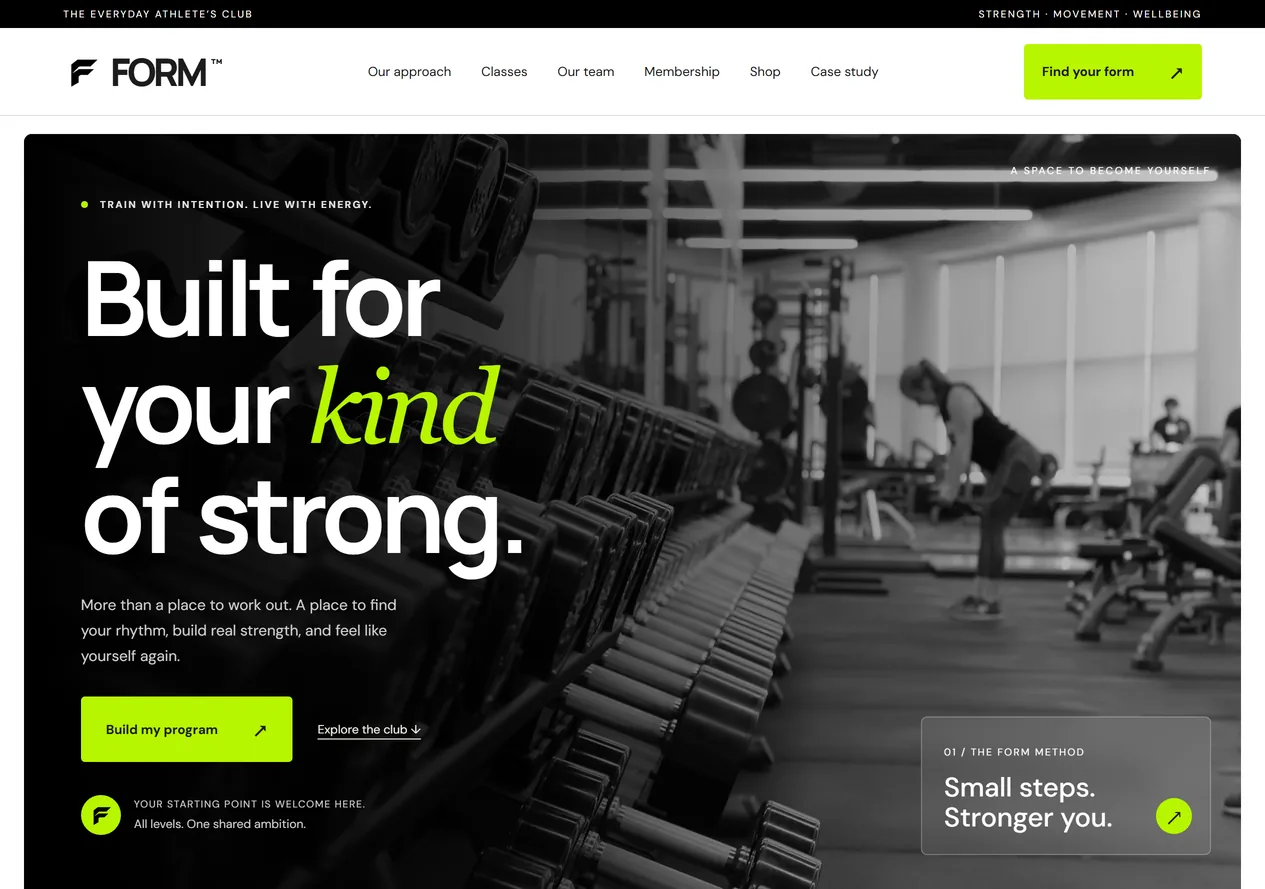
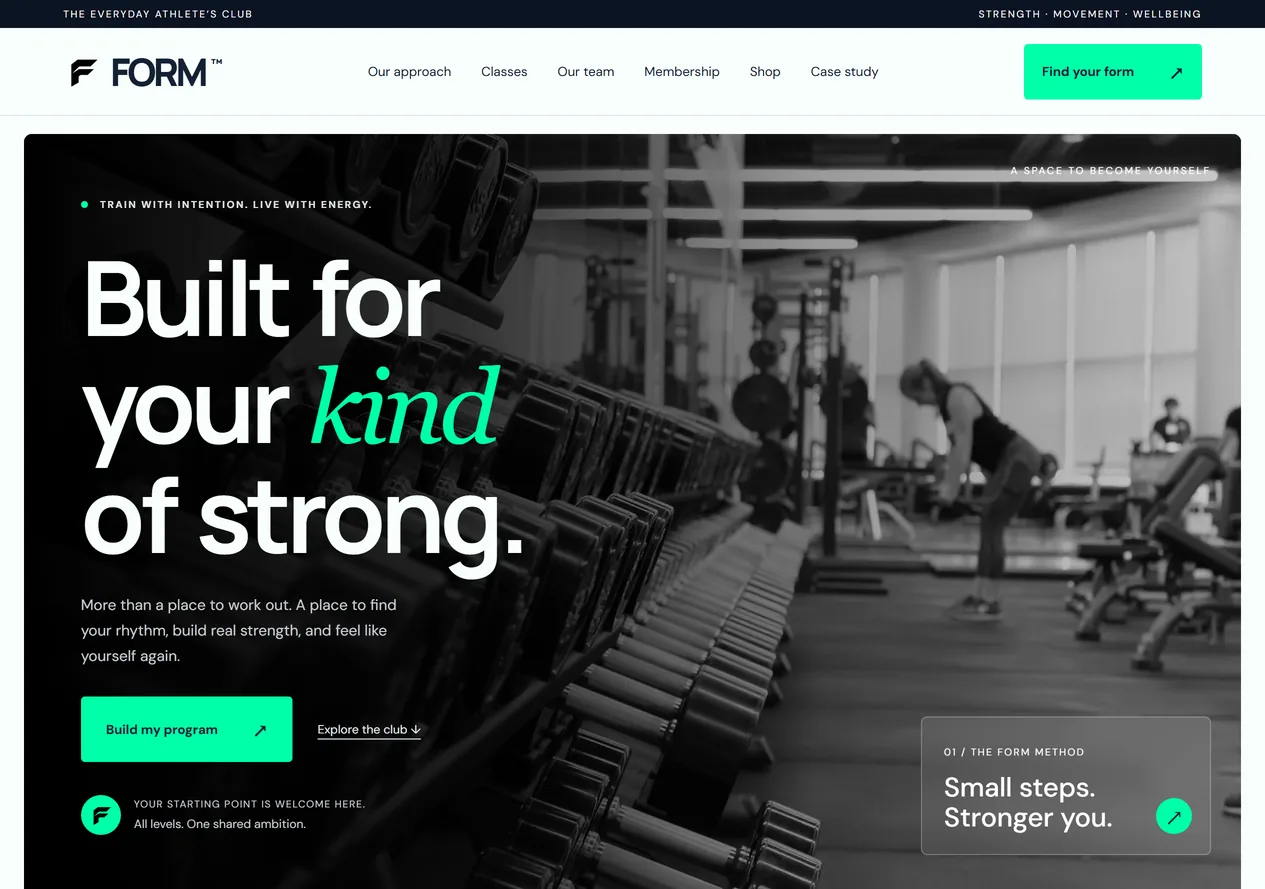
Update FORM study for its new navy, mint and blue palette
New live capture, updated design wording and alt text, and a cool
blue panel tint in place of sage.

diff --git a/index.html b/index.html
@@ -43,7 +43,7 @@
     .hero{display:grid;grid-template-columns:minmax(0,1.2fr) minmax(0,1fr);gap:40px;align-items:center}.hero h1{font:600 clamp(60px,7vw,108px)/1.02 'Manrope',sans-serif;letter-spacing:-.065em;margin:30px 0 32px}.hero-copy p{font-size:17px;line-height:1.7;max-width:480px;margin:0 0 34px;color:var(--muted)}.hero-stack{position:relative;aspect-ratio:1.05}.hero-stack img{position:absolute;width:78%;height:auto;border-radius:8px;box-shadow:0 30px 60px #25272233;transition:transform .7s cubic-bezier(.2,.7,.2,1)}.hero-stack img:nth-child(1){left:20%;top:3%;transform:rotate(8deg)}.hero-stack img:nth-child(2){left:0;top:19%;transform:rotate(-7deg)}.hero-stack img:nth-child(3){left:11%;top:37%;transform:rotate(1.5deg)}.hero:hover .hero-stack img:nth-child(1){transform:translate(26px,-22px) rotate(12deg)}.hero:hover .hero-stack img:nth-child(2){transform:translate(-26px,-4px) rotate(-11deg)}.hero:hover .hero-stack img:nth-child(3){transform:translateY(14px) rotate(0)}.hero-index{position:absolute;right:0;bottom:-6px;font:11px monospace;letter-spacing:1px;text-transform:uppercase;color:var(--muted)}
     .marquee{display:flex;align-items:center;gap:28px;border-top:1px solid var(--line);border-bottom:1px solid var(--line);padding:20px 0;font:11px monospace;letter-spacing:1.2px;text-transform:uppercase}.marquee-label{flex:none;color:var(--muted)}.marquee-window{flex:1;min-width:0;display:flex;overflow:hidden;-webkit-mask-image:linear-gradient(90deg,transparent,#000 7%,#000 93%,transparent);mask-image:linear-gradient(90deg,transparent,#000 7%,#000 93%,transparent)}.marquee-track{flex:none;display:flex;margin:0;padding:0;list-style:none;white-space:nowrap;animation:marquee 70s linear infinite}.marquee-track li::after{content:'✦';color:var(--accent);margin:0 22px;font-size:9px}.marquee:hover .marquee-track{animation-play-state:paused}@keyframes marquee{to{transform:translateX(-100%)}}
     .cases{display:grid;gap:90px}.case{display:grid;grid-template-columns:minmax(0,1.15fr) minmax(0,1fr);gap:56px;align-items:center}.case.flip .case-visual{order:2}.case-visual{position:relative;display:block;width:100%;border:0;padding:58px 7% 0;background:var(--tone);border-radius:8px;overflow:hidden;aspect-ratio:1.25;color:var(--ink)}.case-visual img{display:block;width:100%;height:auto;border-radius:6px 6px 0 0;box-shadow:0 24px 50px #2527222e;transition:transform .5s cubic-bezier(.2,.7,.2,1)}.case-visual:hover img{transform:translateY(-8px)}.case-number{position:absolute;top:21px;left:22px;font:11px monospace;letter-spacing:1px;text-transform:uppercase;opacity:.75}.case-zoom{position:absolute;right:18px;bottom:18px;z-index:1;background:var(--paper);padding:11px 15px;border-radius:99px;font:11px monospace}.case.featured{grid-template-columns:1fr;gap:40px}.featured .case-visual{aspect-ratio:2.1;padding:72px 14% 0}.featured .case-copy{display:grid;grid-template-columns:1fr 1.2fr;gap:56px}.case-copy h3{font:500 clamp(32px,3.2vw,46px)/1.1 'Manrope',sans-serif;letter-spacing:-1.6px;margin:0 0 12px}.case-copy dl{margin:0}.case:not(.featured) .case-copy dl{margin-top:34px;padding-top:28px;border-top:1px solid var(--line)}.case-copy dt:first-child{margin-top:0}.case-links{display:flex;gap:10px 28px;flex-wrap:wrap}.tone-ronins{--tone:#e6d6cc}.tone-khalik{--tone:#dce7a8}.tone-realest{--tone:#ecdcd4}
-.tone-form{--tone:#e4e9d8}.more-work .gallery-head{margin-top:90px}
+.tone-form{--tone:#dbeef5}.more-work .gallery-head{margin-top:90px}
     .motion-grid{display:grid;grid-template-columns:repeat(4,minmax(0,1fr));gap:16px}.motion-tile{position:relative;margin:0;aspect-ratio:1;border-radius:8px;overflow:hidden;background:#ebe9e0}.motion-tile.feature{grid-column:span 2;grid-row:span 2;aspect-ratio:auto}.motion-tile video{position:absolute;inset:0;width:100%;height:100%;object-fit:cover;display:block}.motion-play{position:absolute;inset:0;border:0;padding:0;background:transparent;border-radius:inherit}.motion-play span{position:absolute;top:12px;right:12px;width:38px;height:38px;border-radius:50%;display:grid;place-items:center;background:var(--paper);color:var(--ink);font-size:12px;transition:transform .2s,background .2s}.motion-play:hover span{transform:scale(1.08);background:var(--accent)}.motion-play:focus-visible{outline-offset:-4px}.motion-tile figcaption{position:absolute;left:12px;bottom:12px;max-width:calc(100% - 24px);display:flex;flex-direction:column;gap:3px;padding:9px 12px;border-radius:6px;background:var(--paper);pointer-events:none}.motion-tile figcaption strong{font:500 14px 'Manrope',sans-serif;letter-spacing:-.3px}.motion-tile figcaption span{font-size:11px;color:var(--muted)}.feature figcaption{left:18px;bottom:18px;padding:13px 16px}.feature figcaption strong{font-size:20px}.feature figcaption span{font-size:12px}.motion-note{grid-column:span 2;display:flex;flex-direction:column;justify-content:space-between;gap:18px;padding:26px;border:1px solid var(--line);border-radius:8px}.motion-note p{margin:0;font:500 clamp(20px,2vw,27px)/1.3 'Manrope',sans-serif;letter-spacing:-.8px;max-width:440px}
     .mosaic{display:grid;gap:34px}.mosaic-row{display:flex;gap:22px}.mosaic .sample{flex:var(--r) 1 0;min-width:0}.mosaic .sample button{aspect-ratio:var(--r);border-radius:6px}.mosaic .sample img{object-fit:cover}.supporting-work .mosaic{padding:15px 0 10px}
     .stats{background:var(--lime);padding:80px 0}.stats-grid{display:grid;grid-template-columns:repeat(4,minmax(0,1fr));gap:30px;list-style:none;margin:44px 0 0;padding:0}.stats-grid li{display:flex;flex-direction:column;gap:8px;border-top:1px solid var(--ink);padding-top:22px}.stat-value{font:500 clamp(56px,6.2vw,96px)/1 'Manrope',sans-serif;letter-spacing:-.06em;font-variant-numeric:tabular-nums}.stats-grid span{font-size:15px}.stats-grid small{font:11px monospace;color:#4b4e44}.stats .section-head p{color:#4b4e44}
@@ -66,7 +66,7 @@
           <article class="case featured tone-ronins" id="case-ronins"><button type="button" class="case-visual image-open" data-image="assets/ronins-website.webp" data-caption="Ronins — actual website capture" aria-label="Enlarge Ronins website capture"><span class="case-number">01 / Brand website</span><img src="assets/ronins-website.webp" alt="Ronins homepage with a deep red hero, oversized “Visuals, with intent” headline, and samurai mark" loading="lazy" width="1265" height="889"><span class="case-zoom" aria-hidden="true">View capture ↗</span></button><div class="case-copy"><div class="case-title"><h3>Ronins</h3><p class="case-intro">Give a visual studio a digital identity.</p><div class="tags"><span>Brand-led web design</span><span>HTML / CSS / JS</span><span>Multi-page experience</span></div><div class="case-links"><a class="text-cta" href="https://ramez961.github.io/Ronins/" target="_blank" rel="noopener noreferrer">Visit the website <span aria-hidden="true">↗</span></a><a class="text-cta" href="https://github.com/ramez961/Ronins" target="_blank" rel="noopener noreferrer">View source <span aria-hidden="true">↗</span></a></div></div><dl><dt>The website’s purpose</dt><dd>Introduce the studio, show the industries it serves, and guide visitors toward a project enquiry.</dd><dt>The design</dt><dd>A bold red identity, oversized typography, and strong imagery bring the creative studio’s character into the interface.</dd><dt>The experience</dt><dd>Service pages for automotive, food and beverage, jewellery, and real estate connect brand storytelling with clear navigation and contact paths.</dd><dt>Knowledge brought together</dt><dd>Visual identity, content hierarchy, imagery, responsive layout, and front-end implementation.</dd></dl></div></article>
           <article class="case tone-khalik" id="case-khalik"><button type="button" class="case-visual image-open" data-image="assets/khalik-refresh-website.webp" data-caption="Khalik Fahem — actual website capture" aria-label="Enlarge Khalik Fahem website capture"><span class="case-number">02 / Arabic landing page</span><img src="assets/khalik-refresh-website.webp" alt="Khalik Fahem Arabic right-to-left landing page with a lime green hero and a video introduction card" loading="lazy" width="1265" height="889"><span class="case-zoom" aria-hidden="true">View capture ↗</span></button><div class="case-copy"><div class="case-title"><h3>Khalik Fahem</h3><p class="case-intro">Make the story and next step clear.</p><div class="tags"><span>RTL web design</span><span>Video integration</span><span>Responsive development</span></div><div class="case-links"><a class="text-cta" href="https://ramez961.github.io/Khalik-Fahem-2/" target="_blank" rel="noopener noreferrer">Visit the website <span aria-hidden="true">↗</span></a><a class="text-cta" href="https://github.com/ramez961/Khalik-Fahem-2" target="_blank" rel="noopener noreferrer">View source <span aria-hidden="true">↗</span></a></div></div><dl><dt>The website’s purpose</dt><dd>Introduce a career community through video, explain its structure, and guide visitors through the membership story.</dd><dt>The design</dt><dd>A lime-and-white palette, prominent Arabic typography, and a video-led opening establish a focused visual direction.</dd><dt>The experience</dt><dd>A responsive RTL layout connects the introduction, programme stages, member-story carousel, and membership section. Signup and final offer copy still require configuration in the source project.</dd><dt>Knowledge brought together</dt><dd>Arabic content presentation, visual hierarchy, video integration, responsive layout, and interaction design.</dd></dl></div></article>
           <article class="case flip tone-realest" id="case-realest"><button type="button" class="case-visual image-open" data-image="assets/realest-website.webp" data-caption="The Realest Estate — supplied Squarespace website capture" aria-label="Enlarge The Realest Estate website capture"><span class="case-number">03 / Web &amp; real estate</span><img src="assets/realest-website.webp" alt="Full website capture of The Realest Estate, showing agency and property content" loading="lazy" width="1182" height="2400"><span class="case-zoom" aria-hidden="true">View capture ↗</span></button><div class="case-copy"><div class="case-title"><h3>The Realest Estate</h3><p class="case-intro">A digital home for a property brand.</p><div class="tags"><span>Squarespace</span><span>Website layout</span><span>Creative marketing</span></div></div><dl><dt>Focus</dt><dd>Bring property content, agency information, and brand communications into a coherent website experience.</dd><dt>My contribution</dt><dd>Contributed to the Squarespace website’s layout, content, and user flow as Creative Marketing &amp; Operations Specialist. Produced supporting design, video, and motion graphics for property marketing.</dd><dt>Design direction</dt><dd>A restrained palette, prominent property imagery, and clear sections give the listings room to lead.</dd><dt>Deliverable</dt><dd>Website structure and content contribution, alongside an ongoing body of branded marketing assets.</dd></dl></div></article>
-          <article class="case tone-form" id="case-form"><button type="button" class="case-visual image-open" data-image="assets/form-website.webp" data-caption="FORM Athletic Club — actual website capture" aria-label="Enlarge FORM Athletic Club website capture"><span class="case-number">04 / Concept website</span><img src="assets/form-website.webp" alt="FORM Athletic Club homepage with a black hero card, the headline “Built for your kind of strong.” with a lime italic accent, over a black-and-white gym photo" loading="lazy" width="1265" height="889"><span class="case-zoom" aria-hidden="true">View capture ↗</span></button><div class="case-copy"><div class="case-title"><h3>FORM Athletic Club</h3><p class="case-intro">A gym that welcomes every starting point.</p><div class="tags"><span>Concept &amp; brand</span><span>HTML / CSS / JS</span><span>Accessible, framework-free</span></div><div class="case-links"><a class="text-cta" href="https://ramez961.github.io/FORM-Athletic-Club/" target="_blank" rel="noopener noreferrer">Visit the website <span aria-hidden="true">↗</span></a><a class="text-cta" href="https://ramez961.github.io/FORM-Athletic-Club/case-study.html" target="_blank" rel="noopener noreferrer">Read the case study <span aria-hidden="true">↗</span></a><a class="text-cta" href="https://github.com/ramez961/FORM-Athletic-Club" target="_blank" rel="noopener noreferrer">View source <span aria-hidden="true">↗</span></a></div></div><dl><dt>The website’s purpose</dt><dd>Introduce a fictional athletic club to everyday athletes and guide visitors from a first look to a starting program and a membership.</dd><dt>The design</dt><dd>A near-black and off-white base with one lime accent for every action, and tight geometric headlines softened by a single italic serif word.</dd><dt>The experience</dt><dd>A program planner, class timetable, BMI calculator, membership pricing toggle, demo shop and six coach profiles, all running in the browser with nothing sent anywhere.</dd><dt>Knowledge brought together</dt><dd>Brand direction, UX writing, responsive layout, accessibility, and framework-free front-end implementation.</dd></dl></div></article>
+          <article class="case tone-form" id="case-form"><button type="button" class="case-visual image-open" data-image="assets/form-website.webp" data-caption="FORM Athletic Club — actual website capture" aria-label="Enlarge FORM Athletic Club website capture"><span class="case-number">04 / Concept website</span><img src="assets/form-website.webp" alt="FORM Athletic Club homepage with a black hero card, the headline “Built for your kind of strong.” with a mint italic accent, over a black-and-white gym photo" loading="lazy" width="1265" height="889"><span class="case-zoom" aria-hidden="true">View capture ↗</span></button><div class="case-copy"><div class="case-title"><h3>FORM Athletic Club</h3><p class="case-intro">A gym that welcomes every starting point.</p><div class="tags"><span>Concept &amp; brand</span><span>HTML / CSS / JS</span><span>Accessible, framework-free</span></div><div class="case-links"><a class="text-cta" href="https://ramez961.github.io/FORM-Athletic-Club/" target="_blank" rel="noopener noreferrer">Visit the website <span aria-hidden="true">↗</span></a><a class="text-cta" href="https://ramez961.github.io/FORM-Athletic-Club/case-study.html" target="_blank" rel="noopener noreferrer">Read the case study <span aria-hidden="true">↗</span></a><a class="text-cta" href="https://github.com/ramez961/FORM-Athletic-Club" target="_blank" rel="noopener noreferrer">View source <span aria-hidden="true">↗</span></a></div></div><dl><dt>The website’s purpose</dt><dd>Introduce a fictional athletic club to everyday athletes and guide visitors from a first look to a starting program and a membership.</dd><dt>The design</dt><dd>A deep navy and cool off-white base with a bright mint accent for every action and electric blue for emphasis, and tight geometric headlines softened by a single italic serif word.</dd><dt>The experience</dt><dd>A program planner, class timetable, BMI calculator, membership pricing toggle, demo shop and six coach profiles, all running in the browser with nothing sent anywhere.</dd><dt>Knowledge brought together</dt><dd>Brand direction, UX writing, responsive layout, accessibility, and framework-free front-end implementation.</dd></dl></div></article>
         </div>
         <div class="more-work"><div class="gallery-head"><div><div class="eyebrow">More website builds</div><h3>Live designs, open source.</h3></div><p>Actual website captures. Open a project to explore its complete design.</p></div><div class="projects">
           <article class="project"><a class="preview trading" href="https://ramez961.github.io/Trading-Niche-Webinar/" target="_blank" rel="noopener noreferrer" aria-label="Visit Trading Niche Webinar live website"><span class="number">WEBINAR EXPERIENCE</span><img class="website-capture" src="assets/webinar-website.webp" alt="Trading Niche Webinar homepage in Arabic, with a dark navy layout, gold headline, and market chart card" loading="lazy" width="1265" height="889"></a><div class="project-meta"><div><h3>Trading Niche Webinar</h3><p>A clear path from interest to next steps.</p></div><a class="source-link" href="https://github.com/ramez961/Trading-Niche-Webinar" target="_blank" rel="noopener noreferrer">Source ↗</a></div><span class="project-note">Arabic &amp; English · Seven-page journey</span></article>
